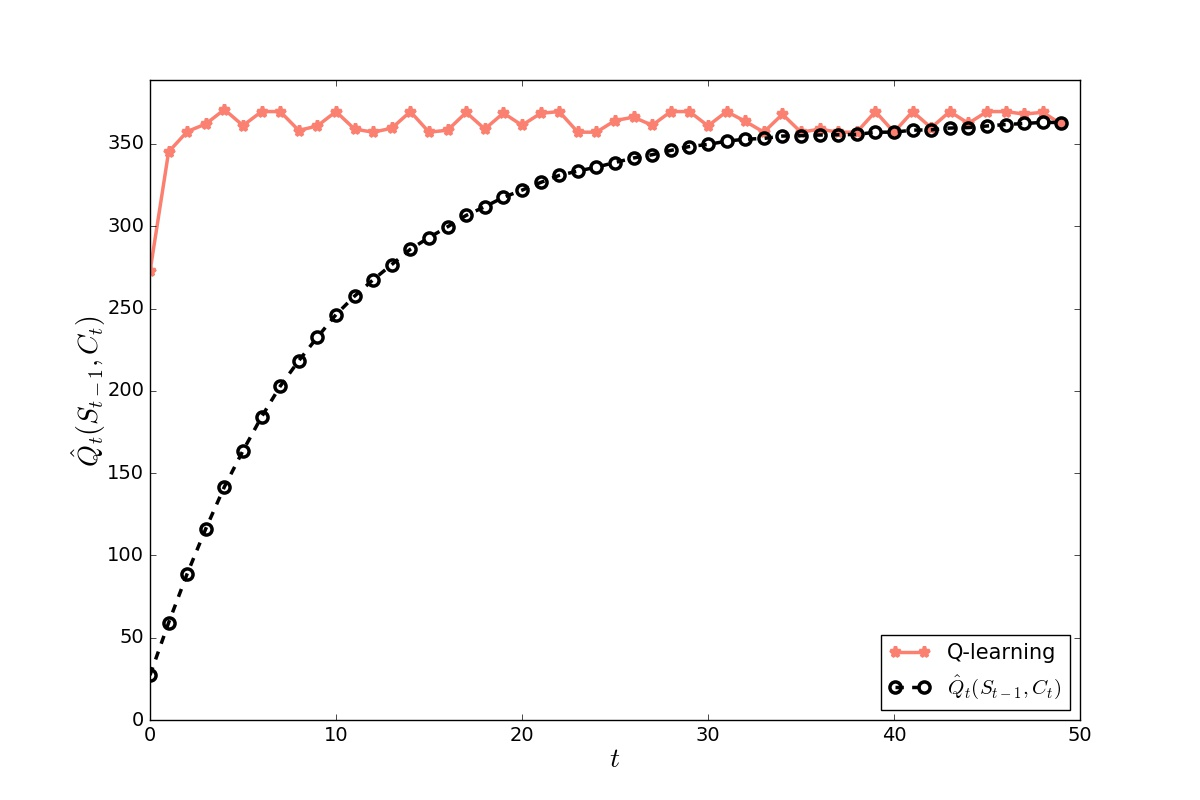
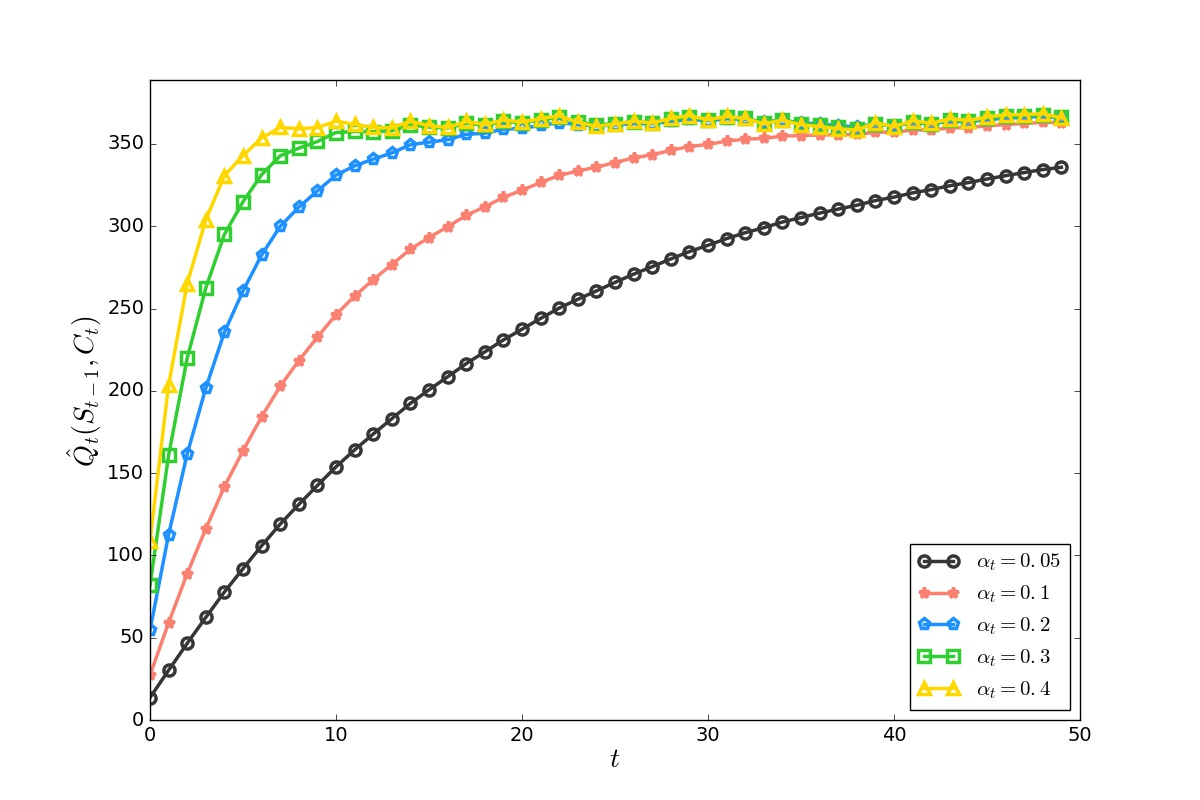
Myron: fix plots in global.

diff --git a/section_q_learning/display/rewards.py b/section_q_learning/display/rewards.py
@@ -114,7 +114,7 @@ def display_multiple_(rewards_data, display_length=500, fig_size=(12, 8), line_w
             curve = reward
         if with_standardize:
             if standardize_special:
-                if _ in ['CMAB']:
+                if _ in ['CUCB-PE']:
                     curve = curve[:standardize_init] + standardize_(curve[standardize_init:], sigma=sigma)
                 elif _ in ['Q-learning']:
                     curve = curve[:5] + standardize_(curve[5:], sigma=sigma)
@@ -127,29 +127,36 @@ def display_multiple_(rewards_data, display_length=500, fig_size=(12, 8), line_w
         rewards_curve['B&B'] = list(1.02 * np.max(np.array(rewards_curve.values()), axis=0))
         # rewards_curve['B&B'] = [380] * len(rewards_curve['B&B'])
 
-    for _, curve in rewards_curve.iteritems():
-        current_marker = marker
-        if marker == '':
-            current_marker = AVAILABLE_MARKERS[counter % len(AVAILABLE_MARKERS)]
-        if x_axis is not None:
-            plt.plot(x_axis, curve, color=DEFAULT_COLORS.get(counter), linewidth=line_width,
-                     marker=current_marker, markersize=marker_size, markerfacecolor='None',
-                     markeredgecolor=DEFAULT_COLORS.get(counter), markeredgewidth=line_width)
-        else:
-            plt.plot(curve, color=DEFAULT_COLORS.get(counter), linewidth=line_width,
-                     marker=current_marker, markersize=marker_size, markerfacecolor='None',
-                     markeredgecolor=DEFAULT_COLORS.get(counter), markeredgewidth=line_width)
-        counter += 1
     if with_q_values and 'Q-learning' in rewards_curve:
         reward_list = rewards_curve['Q-learning']
-        q_values = [0]
-        for reward in reward_list:
-            q_values.append(reward * alpha + (1 - alpha)*q_values[-1])
-        q_values = q_values[1:]
-        rewards_curve['${\\hat{Q}_t(S_{t-1}, C_t)}$'] = q_values
-        plt.plot(q_values, '--k', linewidth=line_width,
-                 marker='o', markersize=marker_size, markerfacecolor='None',
-                 markeredgecolor='k', markeredgewidth=line_width)
+        alpha = alpha if isinstance(alpha, (list, tuple)) else [alpha]
+        legend = list()
+        for _, a in enumerate(alpha):
+            marker = AVAILABLE_MARKERS[_ % len(AVAILABLE_MARKERS)]
+            q_values = [0]
+            for reward in reward_list:
+                q_values.append(reward * a + (1 - a)*q_values[-1])
+            q_values = q_values[1:]
+            rewards_curve['${\\hat{Q}_t(S_{t-1}, C_t)}$'] = q_values
+            plt.plot(q_values, color=DEFAULT_COLORS.get(_), linewidth=line_width,
+                     marker=marker, markersize=marker_size, markerfacecolor='None',
+                     markeredgecolor=DEFAULT_COLORS.get(_), markeredgewidth=line_width)
+            legend.append('$\\alpha_t = {}$'.format(a))
+    else:
+        for _, curve in rewards_curve.iteritems():
+            current_marker = marker
+            if marker == '':
+                current_marker = AVAILABLE_MARKERS[counter % len(AVAILABLE_MARKERS)]
+            if x_axis is not None:
+                plt.plot(x_axis, curve, color=DEFAULT_COLORS.get(counter), linewidth=line_width,
+                         marker=current_marker, markersize=marker_size, markerfacecolor='None',
+                         markeredgecolor=DEFAULT_COLORS.get(counter), markeredgewidth=line_width)
+            else:
+                plt.plot(curve, color=DEFAULT_COLORS.get(counter), linewidth=line_width,
+                         marker=current_marker, markersize=marker_size, markerfacecolor='None',
+                         markeredgecolor=DEFAULT_COLORS.get(counter), markeredgewidth=line_width)
+            counter += 1
+        legend = rewards_curve.keys()
     plt.title(title, fontsize=title_size, verticalalignment='bottom',
               horizontalalignment='center', color='k', fontproperties=font_properties)
     font_properties.set_size(label_size)
@@ -158,7 +165,6 @@ def display_multiple_(rewards_data, display_length=500, fig_size=(12, 8), line_w
     plt.ylabel(y_label, fontsize=label_size, verticalalignment='bottom',
                horizontalalignment='center', rotation=90,  fontproperties=font_properties)
     # legend = map(lambda x: x.upper(), rewards_data.keys())
-    legend = rewards_curve.keys()
     diff_y = max_y - min_y
     y_min_lim = kwargs.get('y_min_lim', min_y - diff_y * 0.05)
     y_max_lim = kwargs.get('y_max_lim', max_y + diff_y * 0.05)

diff --git a/section_q_learning/simulation/algorithm_comparison.py b/section_q_learning/simulation/algorithm_comparison.py
@@ -14,7 +14,7 @@ from section_q_learning.simulation.base import simulate_with_
 
 algorithm_mapper = {
     'branch_and_bound': 'B&B',
-    'primal_dual_recover': 'CMAB',
+    'primal_dual_recover': 'CUCB-PE',
     'lfu': 'LFU',
     'lru': 'LRU',
     'global_q_learning': 'Q-learning'
@@ -153,7 +153,7 @@ def plot_algorithms_comparison():
                 }
             },
             {
-                'args': (-3.3, 200, '${R_t(S_{t-1}, C_t|\\Theta_t)}$'),
+                'args': (-3.5, 200, '${R_t(S_{t-1}, C_t|\\Theta_t)}$'),
                 'kwargs': {
                     'horizontalalignment': 'center',
                     'verticalalignment': 'center',
@@ -173,7 +173,7 @@ def plot_algorithms_comparison():
 def plot_q_values():
     parameters = {
         'with_q_values': True,
-        'alpha': 0.1,
+        'alpha': [0.05, 0.1, 0.2, 0.3, 0.4],
         'display_length': 50,
         'line_width': 2.5,
         'title_size': 20,
@@ -201,7 +201,7 @@ def plot_q_values():
                 }
             },
             {
-                'args': (-3.3, 200, '${\\hat{Q}_t(S_{t-1}, C_t)}$'),
+                'args': (-3.5, 200, '${\\hat{Q}_t(S_{t-1}, C_t)}$'),
                 'kwargs': {
                     'horizontalalignment': 'center',
                     'verticalalignment': 'center',
